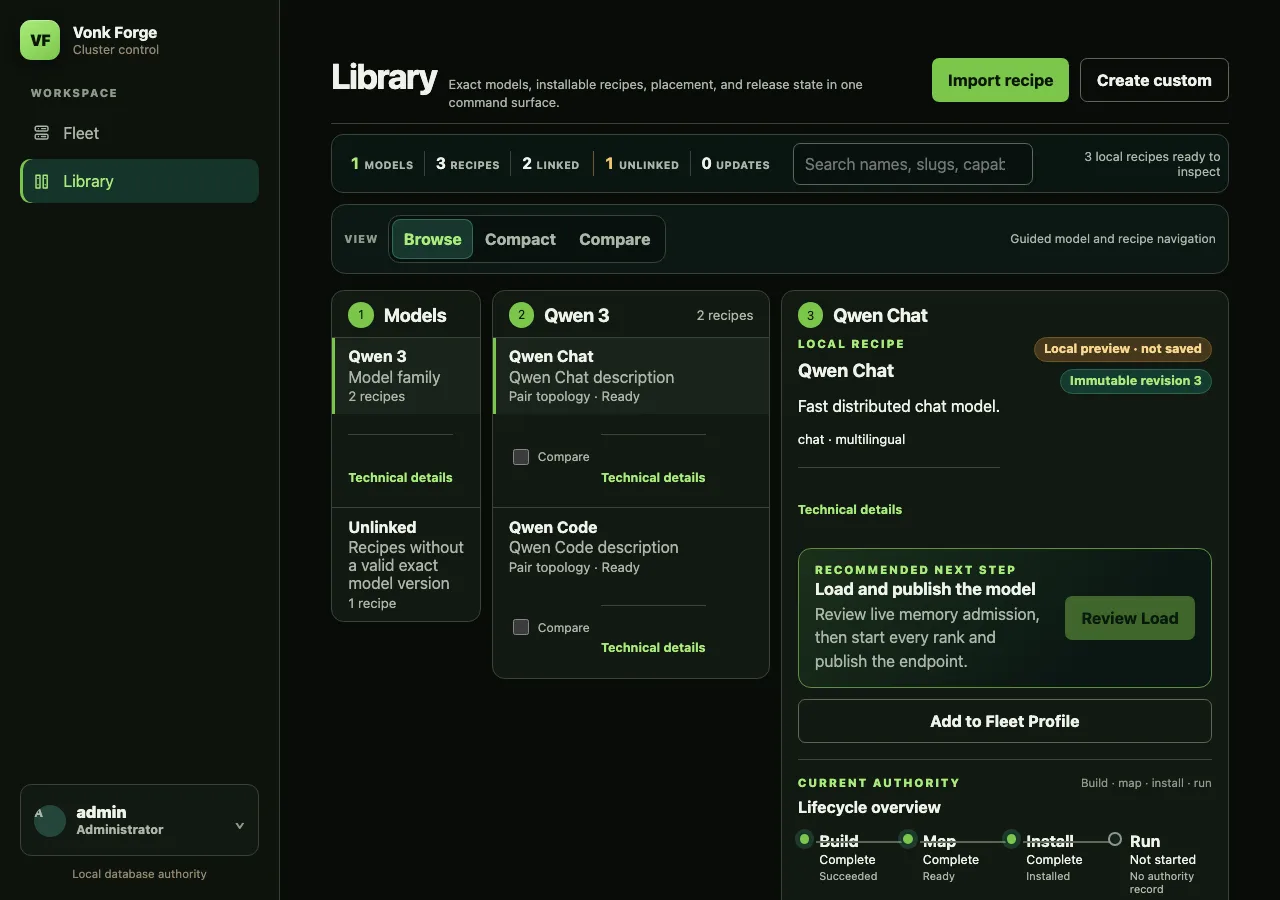
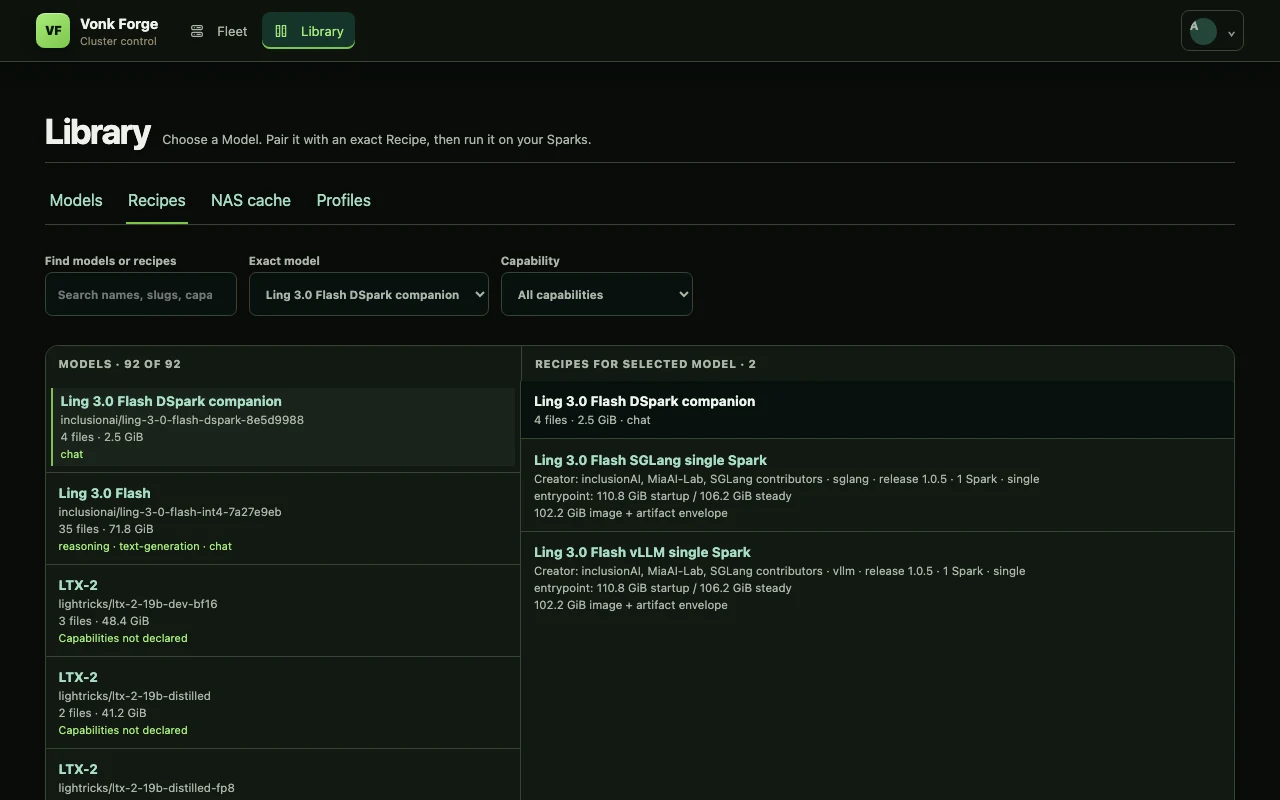
docs(web): refresh controller story and captures

diff --git a/web/src/pages/models.tsx b/web/src/pages/models.tsx
@@ -186,7 +186,7 @@ export function ModelsPage() {
   useEffect(() => { document.title = "Models · Vonk Forge"; }, []);
   return <main className="models-page">
     <header className="page-intro models-intro"><div><p className="eyebrow">Public model index</p><h1>Models, with their exact versions.</h1></div><p>Start with a model, then inspect its exact versions and variants and the recipes that bind them. Details come from the published catalog; local cache and running state stay in your Controller.</p></header>
-    <section className="model-index-tools" aria-label="Model index controls"><label htmlFor="model-search">Find a model</label><input id="model-search" type="search" value={filters.query} onChange={(event) => updateFilters({ query: event.target.value })} placeholder="Search model, family, publisher, or tag" /><label htmlFor="model-publisher">Publisher</label><select id="model-publisher" value={filters.publisher} onChange={(event) => updateFilters({ publisher: event.target.value })}><option value="">All publishers</option>{publishers.map((publisher) => <option key={publisher} value={publisher}>{publisher}</option>)}</select><label htmlFor="model-capability">Capability</label><select id="model-capability" value={filters.capability} onChange={(event) => updateFilters({ capability: event.target.value })}><option value="">All declared capabilities</option>{CAPABILITY_OPTIONS.map((capability) => <option key={capability} value={capability}>{filterLabel(capability)}</option>)}</select><label htmlFor="model-recipes">Recipe support</label><select id="model-recipes" value={filters.recipes} onChange={(event) => updateFilters({ recipes: event.target.value })}><option value="">All models</option><option value="recipes">Has public recipes</option><option value="none">No public recipes</option></select><label htmlFor="model-sort">Sort</label><select id="model-sort" value={filters.sort} onChange={(event) => updateFilters({ sort: event.target.value })}><option value="name">Name</option><option value="versions">Most versions</option><option value="recipes">Most recipes</option></select><span aria-live="polite">{models ? `${filtered.length} of ${models.length} models` : "Loading models…"}</span>{(filters.query || filters.publisher || filters.capability || filters.recipes || filters.sort !== "name") ? <button className="text-button" type="button" onClick={clearFilters}>Clear filters</button> : null}</section>
+    <section className="model-index-tools" aria-label="Model index controls"><label htmlFor="model-search">Find a model</label><input id="model-search" type="search" value={filters.query} onChange={(event) => updateFilters({ query: event.target.value })} placeholder="Search model, family, publisher, or tag" /><label htmlFor="model-publisher">Publisher</label><select id="model-publisher" value={filters.publisher} onChange={(event) => updateFilters({ publisher: event.target.value })}><option value="">All publishers</option>{publishers.map((publisher) => <option key={publisher} value={publisher}>{publisher}</option>)}</select><label htmlFor="model-capability">Capability</label><select id="model-capability" value={filters.capability} onChange={(event) => updateFilters({ capability: event.target.value })}><option value="">All declared capabilities</option>{CAPABILITY_OPTIONS.map((capability) => <option key={capability} value={capability}>{filterLabel(capability)}</option>)}</select><label htmlFor="model-recipes">Recipe support</label><select id="model-recipes" value={filters.recipes} onChange={(event) => updateFilters({ recipes: event.target.value })}><option value="">All models</option><option value="recipes">Has public recipes</option><option value="none">No public recipes</option></select><label htmlFor="model-sort">Sort</label><select id="model-sort" value={filters.sort} onChange={(event) => updateFilters({ sort: event.target.value })}><option value="name">Name</option><option value="versions">Most versions</option><option value="recipes">Most recipes</option></select><span aria-live="polite">{models ? `${filtered.length} of ${models.length} models` : error ? "Model index unavailable" : "Loading models…"}</span>{(filters.query || filters.publisher || filters.capability || filters.recipes || filters.sort !== "name") ? <button className="text-button" type="button" onClick={clearFilters}>Clear filters</button> : null}</section>
     <PublicCatalogExplainer />
     {error ? <div className="status-panel error" role="alert"><h2>Models are temporarily unavailable.</h2><p>The public model index could not be loaded. Try again when the catalog source is reachable.</p><button className="button" type="button" onClick={() => { setModels(null); setAttempt((value) => value + 1); }}>Retry</button></div> : null}
     {!models && !error ? <div className="status-panel" role="status">Loading immutable model index…</div> : null}

diff --git a/web/src/pages/home.tsx b/web/src/pages/home.tsx
@@ -65,7 +65,7 @@ function ProductShot({
           src={src}
           alt={alt}
           width="1280"
-          height={src.includes("library") ? "900" : "1239"}
+          height="800"
           loading={eager ? "eager" : "lazy"}
           fetchPriority={eager ? "high" : "auto"}
         />
@@ -84,13 +84,13 @@ export function HomePage() {
     <main className="home-page">
       <section className="home-hero" aria-labelledby="home-title">
         <div className="home-hero-copy">
-          <h1 id="home-title">Run state-of-the-art local AI on your Sparks—with one click.</h1>
+          <h1 id="home-title"><span>Frontier AI.</span><span>Your Sparks.</span><span>One click.</span></h1>
           <p className="home-definition">
-            Models are the AI files. Recipes describe the software and settings
-            that run them on your Sparks.
+            Run state-of-the-art models locally on your Sparks with one private
+            Controller.
           </p>
           <div className="hero-actions">
-            <a className="button primary" href="/install">Install your controller</a>
+            <a className="button primary" href="/install">Set up your Controller</a>
             <a className="button secondary" href="#product-tour">See the real interface</a>
           </div>
           <ul className="home-facts" aria-label="Product facts">
@@ -102,7 +102,7 @@ export function HomePage() {
         </div>
         <ProductShot
           src="/product/controller-library.webp"
-          alt="Vonk Forge Library showing model recipes, lifecycle state, and the recommended next action"
+          alt="Vonk Forge Library showing model and recipe lists from illustrative fixture data"
           title="The real Web Controller"
           body="Fixture-backed product screen · no live fleet data"
           eager
@@ -118,9 +118,9 @@ export function HomePage() {
           </p>
         </div>
         <div className="quickstart-command quickstart-preflight">
-          <span>Mandatory preflight</span>
-          <strong>Set up private Tailscale HTTPS before the installer asks for OAuth credentials.</strong>
-          <a href="/install#tailscale-preflight">Review the four checks, then copy the command</a>
+          <span>One clear next step</span>
+          <strong>Set up your Controller, then choose a model and recipe for your first run.</strong>
+          <a href="/install">Set up your Controller</a>
         </div>
       </section>
 
@@ -154,15 +154,15 @@ export function HomePage() {
         <div className="tour-grid">
           <ProductShot
             src="/product/controller-library.webp"
-            alt="Vonk Forge Library with browse, compare, model recipe, and lifecycle controls"
+            alt="Vonk Forge Library showing paired model and recipe lists from illustrative fixture data"
             title="Library makes the next action obvious"
-            body="Browse models by capability, compare recipes, prepare cached assets, and run from one model-centered workspace."
+            body="Fixture-backed catalog view · illustrative test data"
           />
           <ProductShot
             src="/product/controller-fleet.webp"
-            alt="Vonk Forge Fleet showing two Sparks, live capacity, workloads, and operational warnings"
+            alt="Vonk Forge Fleet showing an illustrative Spark roster, workloads, and attention state"
             title="Fleet shows reality, including blockers"
-            body="Progress, placement, workloads, updates, and recovery guidance stay together."
+            body="Fixture-backed fleet view · illustrative test data"
           />
         </div>
         <div className="control-paths">
@@ -182,7 +182,7 @@ export function HomePage() {
         <div className="security-map" aria-label="Security boundary flow">
           <article className="source-zone">
             <span>Public source</span>
-            <h3>Catalog + signed releases</h3>
+            <h3>Catalog + verified releases</h3>
             <p>Recipe metadata, verified source, installer and package identity.</p>
           </article>
           <div className="security-link"><span>verified inputs</span></div>

diff --git a/web/e2e/catalog.spec.ts b/web/e2e/catalog.spec.ts
@@ -72,9 +72,9 @@ test.beforeEach(async ({ page }) => {
 test("platform story stays navigable and bounded", async ({ page }) => {
   await page.goto("/");
 
-  await expect(page.getByRole("heading", { name: /Run state-of-the-art local AI on your Sparks—with one click\./i })).toBeVisible();
-  await expect(page.getByText(/Models are the AI files\. Recipes describe the software and settings/i)).toBeVisible();
-  await expect(page.getByRole("heading", { name: "Catalog + signed releases", exact: true })).toBeVisible();
+  await expect(page.getByRole("heading", { name: /Frontier AI\.\s*Your Sparks\.\s*One click\./i })).toBeVisible();
+  await expect(page.getByText(/Run state-of-the-art models locally on your Sparks with one private Controller/i)).toBeVisible();
+  await expect(page.getByRole("heading", { name: "Catalog + verified releases", exact: true })).toBeVisible();
   await expect(page.getByRole("heading", { name: "Vonk Forge controller", exact: true })).toBeVisible();
   await expect(page.getByRole("heading", { name: "DGX Spark fleet", exact: true })).toBeVisible();
   await expect(page.getByRole("heading", { name: "Install the controller" })).toBeVisible();
@@ -100,7 +100,7 @@ test("platform story stays navigable and bounded", async ({ page }) => {
   expect(horizontalOverflow).toBeLessThanOrEqual(0);
 
   await page.keyboard.press("Tab");
-  await expect(page.getByRole("link", { name: "Install your controller" })).toBeFocused();
+  await expect(page.locator(".home-hero").getByRole("link", { name: "Set up your Controller" })).toBeFocused();
 
   await page.emulateMedia({ reducedMotion: "reduce" });
   await expect(page.locator("html")).toHaveCSS("scroll-behavior", "auto");
@@ -135,7 +135,7 @@ test("minimum supported viewport does not overflow", async ({ page }) => {
     await page.setViewportSize({ width, height: 800 });
     await page.goto("/");
 
-    await expect(page.getByRole("heading", { name: /Run state-of-the-art local AI on your Sparks—with one click\./i })).toBeVisible();
+    await expect(page.getByRole("heading", { name: /Frontier AI\.\s*Your Sparks\.\s*One click\./i })).toBeVisible();
     const horizontalOverflow = await page.evaluate(
       () => document.documentElement.scrollWidth - window.innerWidth,
     );

diff --git a/web/src/app.test.tsx b/web/src/app.test.tsx
@@ -11,17 +11,14 @@ test("defines the product and puts installation first", () => {
   render(<App />);
 
   expect(
-    screen.getByRole("heading", { name: /run state-of-the-art local ai on your sparks—with one click/i }),
+    screen.getByRole("heading", { name: /frontier ai\.\s*your sparks\.\s*one click\./i }),
   ).toBeVisible();
-  expect(screen.getByText(/Models are the AI files\. Recipes describe the software and settings/i)).toBeVisible();
-  expect(screen.getByRole("link", { name: "Install your controller" })).toHaveAttribute("href", "/install");
+  expect(screen.getByText(/Run state-of-the-art models locally on your Sparks with one private Controller/i)).toBeVisible();
+  expect(screen.getAllByRole("link", { name: "Set up your Controller" })[0]).toHaveAttribute("href", "/install");
   expect(screen.queryByText("curl -fsSL https://install.vonkforge.ai/nas | sh")).not.toBeInTheDocument();
-  expect(screen.getByRole("link", { name: /review the four checks, then copy the command/i })).toHaveAttribute(
-    "href",
-    "/install#tailscale-preflight",
-  );
+  expect(screen.getByText(/choose a model and recipe for your first run/i)).toBeVisible();
   expect(screen.getByText("The real Web Controller")).toBeVisible();
-  expect(screen.getByAltText(/Vonk Forge Library showing model recipes/i)).toBeVisible();
+  expect(screen.getByAltText(/Vonk Forge Library showing model and recipe lists/i)).toBeVisible();
 });
 
 
@@ -200,7 +197,7 @@ test("maps the public catalog to operator-owned control and execution", () => {
   expect(
     screen.getByRole("heading", { name: /private by architecture, not by promise/i }),
   ).toBeVisible();
-  expect(screen.getByRole("heading", { name: "Catalog + signed releases" })).toBeVisible();
+  expect(screen.getByRole("heading", { name: "Catalog + verified releases" })).toBeVisible();
   expect(screen.getByRole("heading", { name: "Vonk Forge controller" })).toBeVisible();
   expect(screen.getByRole("heading", { name: "DGX Spark fleet" })).toBeVisible();
   expect(screen.getByText("Runtime secrets")).toBeVisible();

diff --git a/web/src/pages/models.test.tsx b/web/src/pages/models.test.tsx
@@ -82,6 +82,7 @@ describe("public model browse", () => {
     render(<ModelsPage />);
     await waitFor(() => expect(screen.getByRole("alert")).toBeVisible());
     expect(screen.getByRole("button", { name: "Retry" })).toBeVisible();
+    expect(screen.queryByText("Loading models…")).not.toBeInTheDocument();
   });
 
   test("keeps the full source revision available on the model version detail", async () => {

diff --git a/web/src/styles.css b/web/src/styles.css
@@ -2176,11 +2176,13 @@ a {
 }
 
 .home-hero-copy h1 {
-  max-width: 10.5ch;
+  max-width: 14ch;
   margin: 0;
   font-size: clamp(3.6rem, 6.6vw, 6rem);
   line-height: 0.91;
 }
+
+.home-hero-copy h1 span { display: block; }
 
 .home-definition {
   max-width: 39rem;
